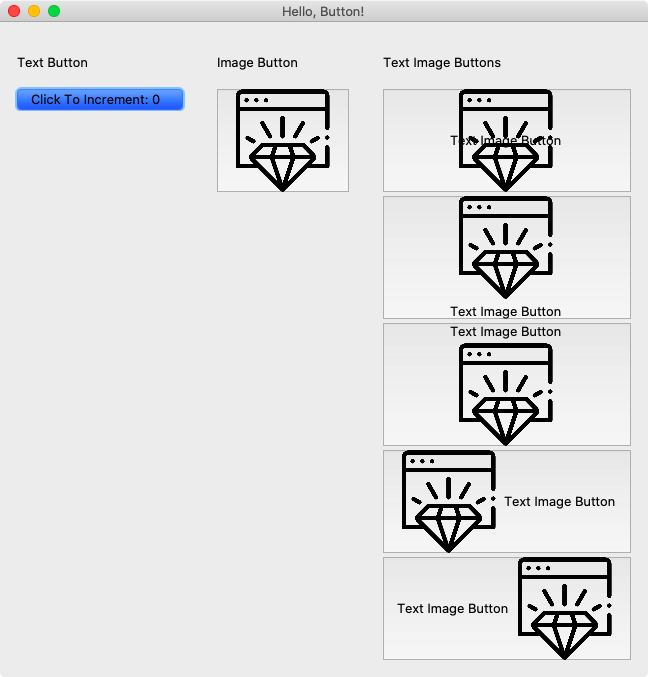
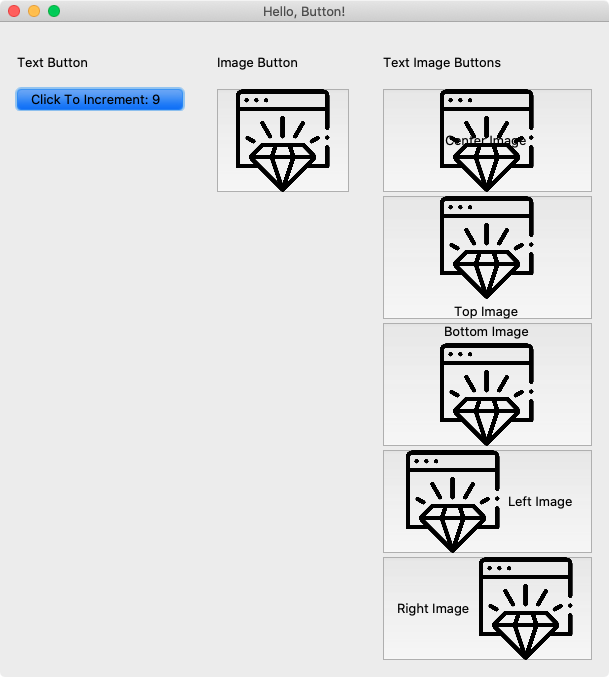
Update Hello, Button! screenshot

diff --git a/samples/hello/hello_button.rb b/samples/hello/hello_button.rb
@@ -47,9 +47,9 @@ class HelloButton
           default 'active'
           focus true
           
-          on('command') {
+          on('command') do
             self.count += 1
-          }
+          end
         }
       }
         
@@ -64,9 +64,9 @@ class HelloButton
         button {
           image File.expand_path('../../icons/glimmer.png', __dir__), subsample: 5
           
-          on('command') {
+          on('command') do
             message_box(title: 'Image Button', message: 'Image Button Clicked!')
-          }
+          end
         }
       }
       
@@ -84,9 +84,9 @@ class HelloButton
             text "#{compound_option.capitalize} Image"
             compound compound_option
             
-            on('command') {
+            on('command') do
               message_box(title: 'Text Image Button', message: 'Text Image Button Clicked!', detail: "(#{compound_option})")
-            }
+            end
           }
         end
       }

diff --git a/samples/hello/hello_drag_and_drop.rb b/samples/hello/hello_drag_and_drop.rb
@@ -57,7 +57,7 @@ root {
         on_drag_start do |event|
           event.data = event.source.text
           event.source.configure(:cursor => "hand2")
-          event.tooltip.content {
+          event.tooltip.content { # re-open tooltip content and add a label
             lbl { # non-tile-theme version of label
               text event.data + " "
               bg "yellow"

diff --git a/README.md b/README.md
@@ -1038,14 +1038,14 @@ class HelloButton
           text 'Text Button'
         }
         
-        button {
+        button { |b|
           text <= [self, :count, on_read: ->(value) { "Click To Increment: #{value}  " }]
           default 'active'
           focus true
           
-          command {
+          on('command') do
             self.count += 1
-          }
+          end
         }
       }
         
@@ -1060,9 +1060,9 @@ class HelloButton
         button {
           image File.expand_path('../../icons/glimmer.png', __dir__), subsample: 5
           
-          command {
+          on('command') do
             message_box(title: 'Image Button', message: 'Image Button Clicked!')
-          }
+          end
         }
       }
       
@@ -1077,12 +1077,12 @@ class HelloButton
         ['center', 'top', 'bottom', 'left', 'right'].each do |compound_option|
           button {
             image File.expand_path('../../icons/glimmer.png', __dir__), subsample: 5
-            text 'Text Image Button'
+            text "#{compound_option.capitalize} Image"
             compound compound_option
             
-            command {
+            on('command') do
               message_box(title: 'Text Image Button', message: 'Text Image Button Clicked!', detail: "(#{compound_option})")
-            }
+            end
           }
         end
       }

diff --git a/TODO.md b/TODO.md
@@ -3,6 +3,7 @@
 ## Next
 
 - Support `drag_source true` on all widgets in Hello, Drag and Drop! (entry, combo, and list)
+- Support `drop_target true` keyword alternative to `on_drop` for cases where it is implied what to drop (text in the case of label, entry, combo, list, and button)
 
 ## Soon
 
